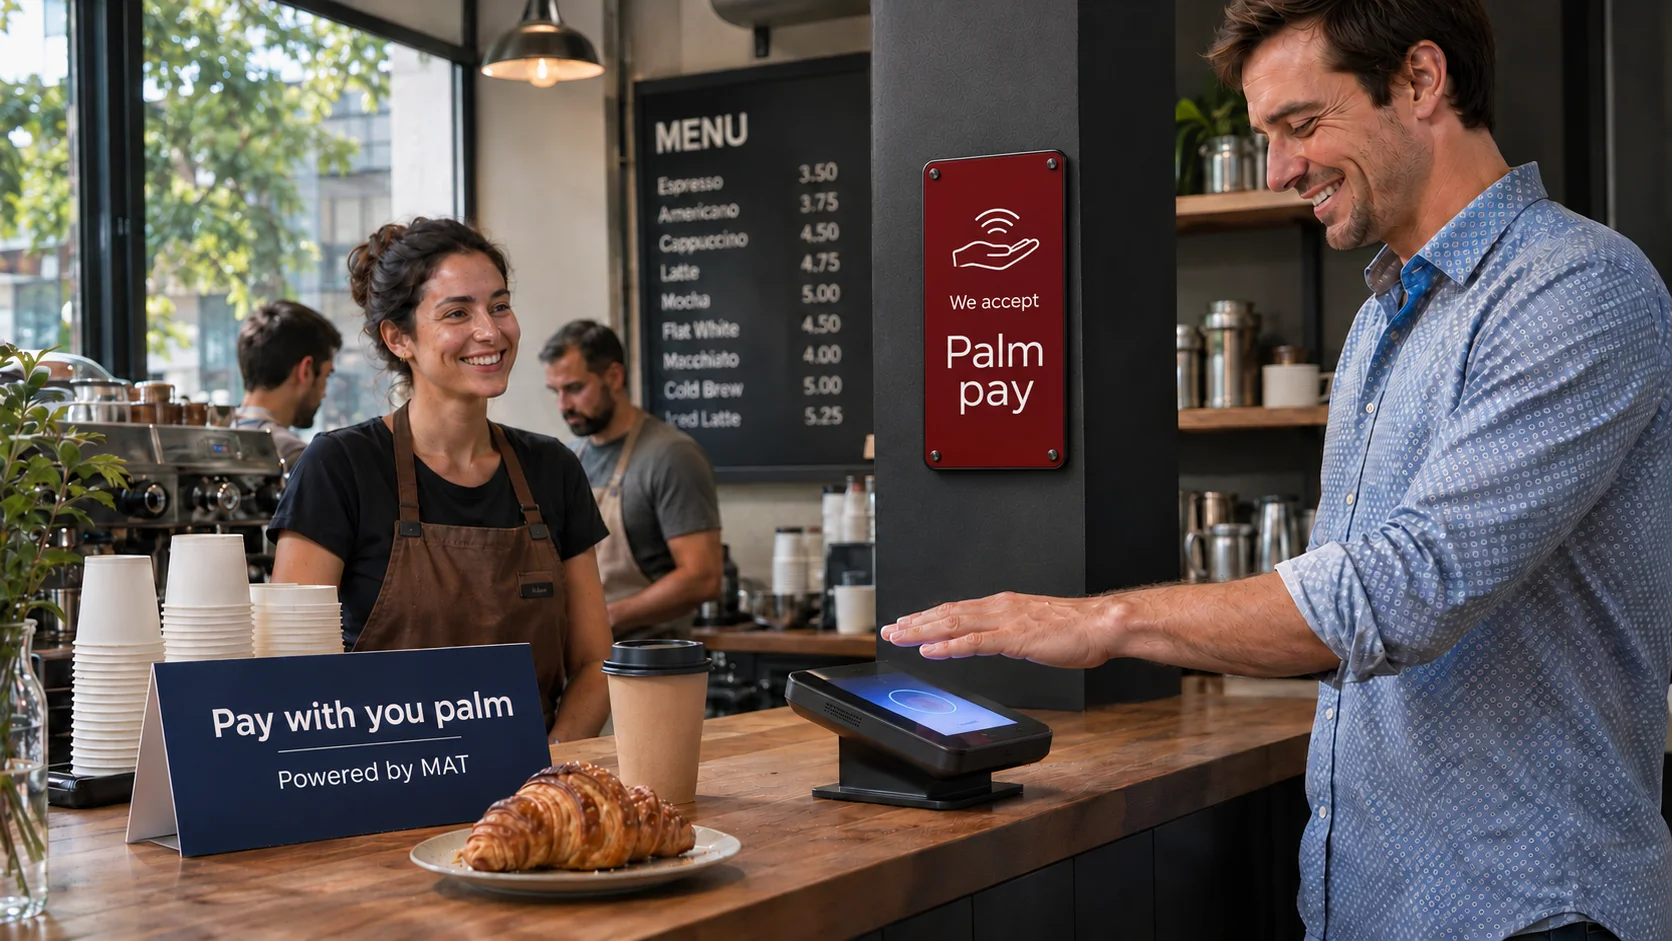
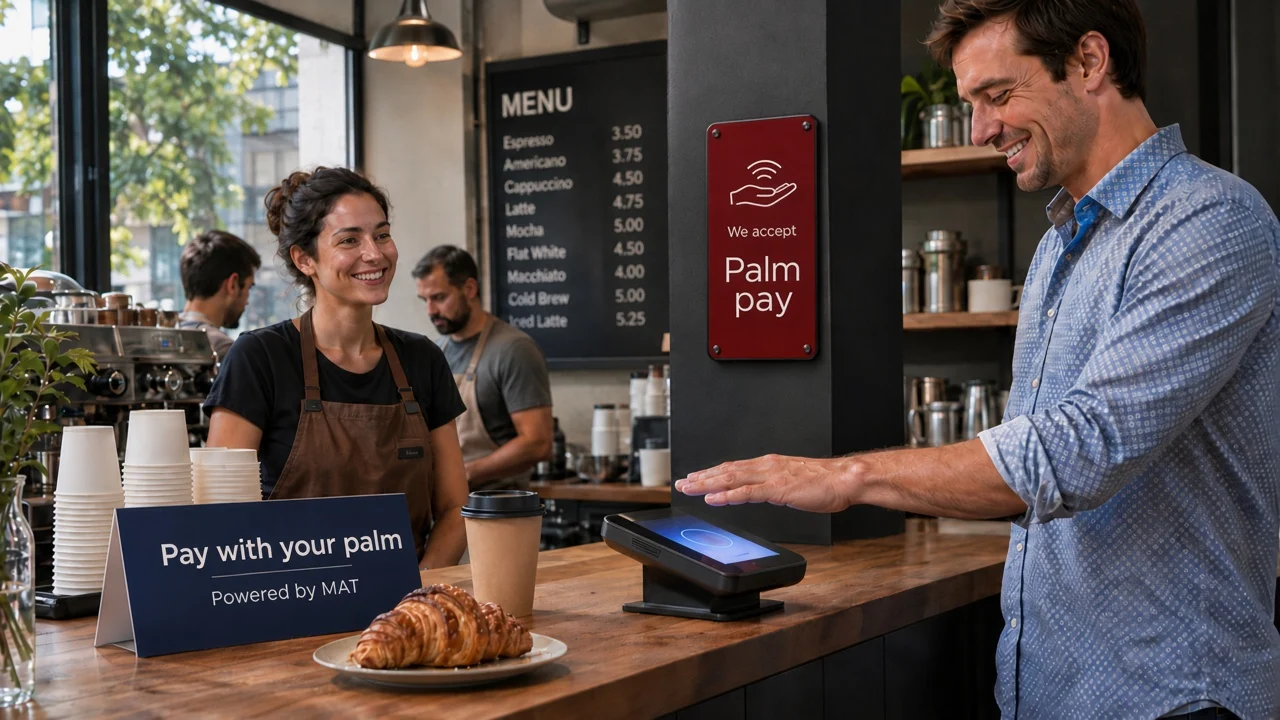
Fix sign typo; Figure OS image 1.5x and WebP with priority loading

diff --git a/app/page.tsx b/app/page.tsx
@@ -152,7 +152,7 @@ export default function HomePage() {
       </section>
 
       <section id="figure-os" className="section bg-black text-fg">
-        <div className="shell grid items-center gap-12 lg:grid-cols-2 lg:gap-20">
+        <div className="shell grid items-center gap-12 lg:grid-cols-[minmax(0,1fr)_minmax(0,2.5fr)] lg:gap-12">
           <Reveal>
             <p className="tag">Figure OS</p>
             <h2 className="h2 mt-6">Software that reads shape.</h2>
@@ -164,9 +164,10 @@ export default function HomePage() {
           </Reveal>
           <Reveal>
             <Still
-              src="/media/figure-os.png"
+              src="/media/figure-os.webp"
               alt="Figure OS with a person marked for detection beside a pose skeleton and a position readout."
-              sizes="(min-width: 1024px) 560px, 100vw"
+              sizes="(min-width: 1024px) 840px, 100vw"
+              priority
               zoom
               imageClassName="object-cover"
               className="aspect-[2/1] w-full"
